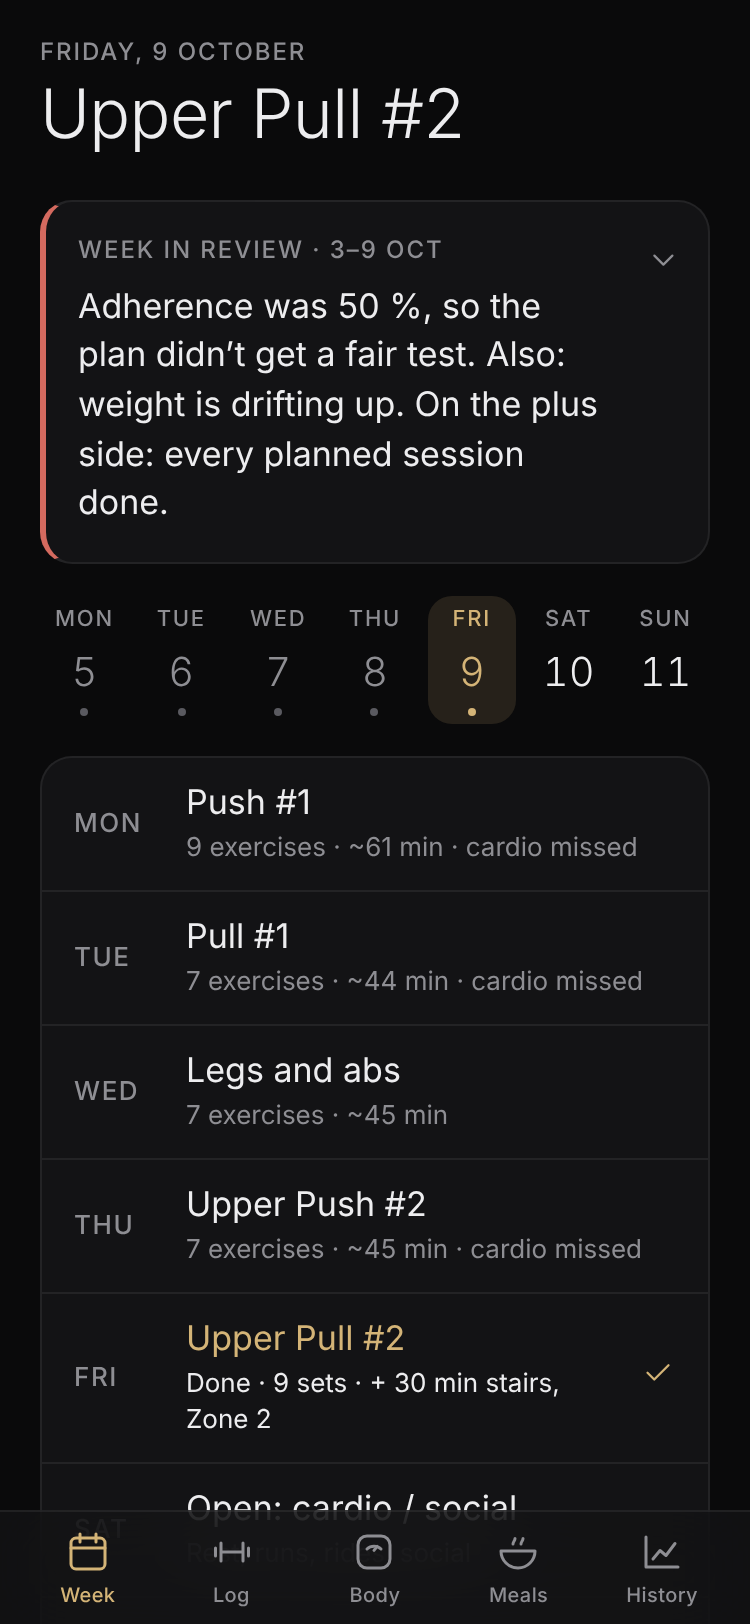
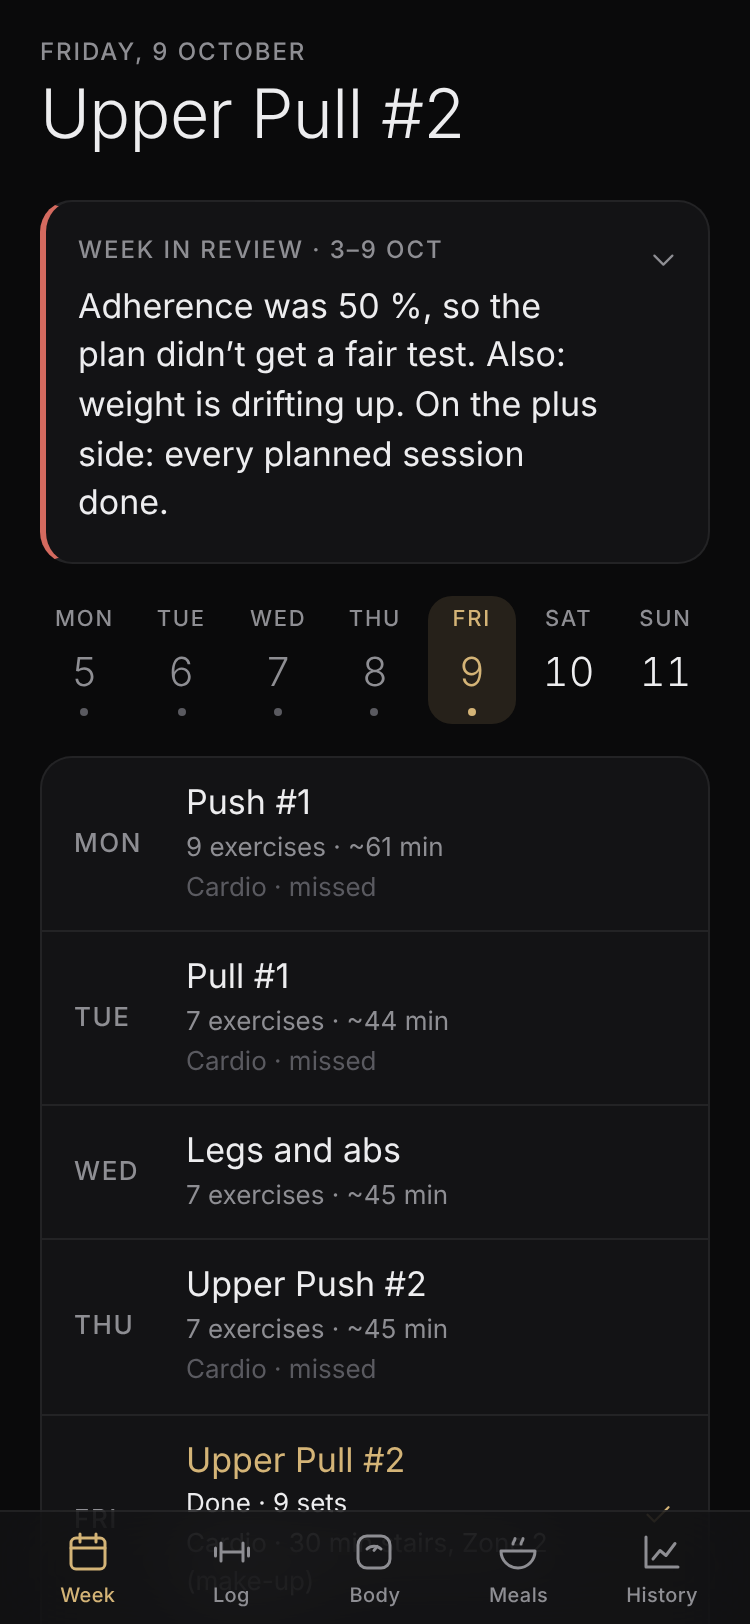
Cardio on its own line per day; reminder-only cardio card; Switch workout
- Week tab: each day's cardio is its own line under the workout
  ("Cardio · 25 min stairs", "Cardio · 35 min run (Strava) ✓",
  "Cardio · missed"); the "Cardio this week" box is gone
- Cardio card: no logging controls (Walter records cardio in Strava);
  it stays under the lifts as the end-of-workout reminder
- Log tab: "Switch workout" under the title on lift days until the
  first set is logged, like "Lift today instead" on open days
- spec 4.2 / 6.5, CLAUDE.md; e2e updated (stage-8 h06, h07)

Claude-Session: https://claude.ai/code/session_014aJiH9Rgq3VrfiuXciGymN

diff --git a/app/views/cardio.js b/app/views/cardio.js
@@ -1,7 +1,7 @@
 // Cardio on the Log and Week tabs (spec §6.5): what the coach prescribes today, at what
-// heart rate and why, what's done this week (Strava + Stairs ✓ taps), and logging a tap.
-import { h, toast, stepper, openSheet } from '../ui.js';
-import { saveDaily } from '../records.js';
+// heart rate and why, and what's done this week. Walter records cardio in Strava, so the
+// card is a reminder only (Walter, 2026-10-13: no logging controls).
+import { h, openSheet } from '../ui.js';
 import { cardioText, itemText, MIN_SESSION_MIN } from '../../coach/cardio.js';
 import { weekDates, isoWeekday, WEEKDAYS } from '../../coach/time.js';
 
@@ -44,40 +44,21 @@ export function whySheet(cardio) {
   openSheet({ title: 'Your cardio this week', subtitle: cardioText(rx), body: h('div', { class: 'stack-sm' }, lines), actions: [{ label: 'Close', kind: 'outline' }] });
 }
 
-function logger(ctx, { today, minutes, tap, walk }) {
-  const field = stepper({ value: tap ? tap.minutes : minutes, step: 5, min: 5, max: 180, unit: 'min', compact: true, label: walk ? 'Walk minutes' : 'Stairs minutes' });
-  return h('div', { class: 'stack-sm' },
-    field,
-    h('button', {
-      type: 'button', class: `btn ${tap ? 'outline' : 'primary'} block`,
-      onClick: async () => {
-        const v = field.getValue();
-        if (!(v > 0)) return;
-        await saveDaily(ctx.db, 'stairs', { localDate: today, tz: ctx.tz(), prefix: 'stairs', fields: { minutes: v } });
-        toast(`${walk ? 'Walk' : 'Stairs'} ${v} min logged`);
-        ctx.refresh();
-      },
-    }, tap ? `Update (${tap.minutes} min logged)` : walk ? 'Walk ✓' : 'Stairs ✓'));
-}
-
 // The cardio card. On a lift day it sits under the exercises; on an open day it's the main card.
 export function cardioCard(ctx, training, { openDay = false } = {}) {
   const cardio = training.cardio;
   if (!cardio) return null;
   const today = training.today;
   const t = cardio.today;
-  const tap = training.stairs.filter((s) => s.local_date === today).pop() || null;
   const todays = t ? t.done : cardio.extra || [];
-  const fromStrava = todays.some((i) => i.source === 'strava');
   const why = h('button', { type: 'button', class: 'link-btn', style: 'align-self:flex-start', onClick: () => whySheet(cardio) }, 'Why this cardio');
 
   if (!t) {
-    // no session planned today: a short line on a lift day; logging + the week on an open day
+    // no session planned today
     return h('section', { class: 'card stack-sm cardio-card', 'aria-label': 'Cardio' },
       h('div', { class: 'row' }, h('p', { class: 'label grow', style: 'margin:0' }, 'Cardio'), todays.length ? h('span', { class: 'badge up' }, 'Done') : null),
       h('div', { class: 'cardio-title' }, todays.length ? todays.map(itemText).join(' + ') : 'None planned today'),
       h('p', { class: 'muted xsmall', style: 'margin:0' }, `This week: ${cardioText(cardio.rx)}.`),
-      openDay && !fromStrava ? logger(ctx, { today, minutes: 30, tap, walk: false }) : null,
       weekTracker(cardio, today),
       why);
   }
@@ -92,17 +73,19 @@ export function cardioCard(ctx, training, { openDay = false } = {}) {
     t.kcal ? h('p', { class: 'muted xsmall', style: 'margin:0' }, `≈${t.kcal} kcal · already counted in your plan’s calories`) : null,
     t.note ? h('p', { class: 'small cardio-note', style: 'margin:0' }, t.note) : null,
     todays.length ? h('p', { class: 'small accent', style: 'margin:0' }, `Logged: ${todays.map(itemText).join(' + ')}`) : null,
-    fromStrava ? null : logger(ctx, { today, minutes: t.minutes, tap, walk: t.kind === 'walk' }),
+    t.status !== 'done' ? h('p', { class: 'muted xsmall', style: 'margin:0' }, 'Record it in Strava: it counts here after the next morning’s sync.') : null,
     weekTracker(cardio, today),
     why);
 }
 
 // Week tab: what the day's row says about cardio.
+// Week tab: the day's cardio line ("Cardio · 25 min stairs", "Cardio · 35 min run (Strava) ✓").
+// → { text, state: 'done' | 'missed' | 'planned' } or null.
 export function cardioMeta(cardio, date, today) {
   if (!cardio) return null;
   const items = cardio.week.items.filter((i) => i.local_date === date);
-  if (items.length) return `${items.map(itemText).join(' + ')} ✓`;
-  if (date < today) return cardio.rx.days.includes(isoWeekday(date)) ? 'cardio missed' : null;
-  if (date === today && cardio.today) return `+ ${todayTitle(cardio.today).replace(' · ', ', ')}`;
-  return cardio.rx.days.includes(isoWeekday(date)) ? `+ ${cardio.rx.minutes} min stairs` : null;
+  if (items.length) return { text: `Cardio · ${items.map(itemText).join(' + ')} ✓`, state: 'done' };
+  if (date < today) return cardio.rx.days.includes(isoWeekday(date)) ? { text: 'Cardio · missed', state: 'missed' } : null;
+  if (date === today && cardio.today) return { text: `Cardio · ${todayTitle(cardio.today).replace(' · ', ', ')}${cardio.today.makeup ? ' (make-up)' : ''}`, state: 'planned' };
+  return cardio.rx.days.includes(isoWeekday(date)) ? { text: `Cardio · ${cardio.rx.minutes} min stairs`, state: 'planned' } : null;
 }

diff --git a/app/views/week.js b/app/views/week.js
@@ -6,8 +6,7 @@ import { focusCheckin } from './body.js';
 import { checkinState, currentPhase, realPhases } from '../../coach/phase.js';
 import { weeklySummary, activeSummaryCheckin } from '../../coach/summary.js';
 import { header, note, sessionList, addonCard } from './common.js';
-import { cardioMeta, weekTracker, whySheet } from './cardio.js';
-import { cardioText } from '../../coach/cardio.js';
+import { cardioMeta } from './cardio.js';
 import { loadTraining, planFor, progressCount } from '../training.js';
 import { planItem } from './log.js';
 import { ensurePlans, planNotice } from '../meal-plans.js';
@@ -33,7 +32,7 @@ export async function render(screen, ctx) {
 
   const cardioLine = (date) => {
     const c = cardioMeta(training.cardio, date, today);
-    return c ? h('p', { class: 'small', style: 'margin:0 0 8px' }, `Cardio: ${c.replace(/^\+ /, '')}`) : null;
+    return c ? h('p', { class: 'small', style: 'margin:0 0 8px' }, c.text.replace(' · ', ': ')) : null;
   };
   const openDay = (date) => {
     const day = dayOf(date);
@@ -88,13 +87,13 @@ export async function render(screen, ctx) {
     } else if (day && day.exercises.length) {
       meta = `${day.exercises.length} exercises${day.est_min ? ` · ~${day.est_min} min` : ''}`;
     } else {
-      meta = cardioMeta(training.cardio, d, today) ? null : 'Rest, runs, rides, social';
+      meta = 'Rest, runs, rides, social';
     }
+    // cardio on its own line under the workout (Walter, 2026-10-13)
     const cm = cardioMeta(training.cardio, d, today);
-    meta = [meta, cm].filter(Boolean).join(' · ');
     return h('button', { type: 'button', class: `item day-row${d === today ? ' today' : ''}${logged.length ? ' logged' : ''}`, onClick: () => openDay(d) },
       h('span', { class: 'when' }, WEEKDAYS[isoWeekday(d) - 1]),
-      h('span', { class: 'grow' }, h('div', { class: 'name' }, day ? day.name : '—'), h('div', { class: 'meta' }, meta)),
+      h('span', { class: 'grow' }, h('div', { class: 'name' }, day ? day.name : '—'), h('div', { class: 'meta' }, meta), cm ? h('div', { class: `meta cardio ${cm.state}` }, cm.text) : null),
       logged.length && logged[logged.length - 1].status === 'finished' ? h('span', { class: 'accent' }, icon('check', { size: 18 })) : null);
   }));
 
@@ -126,20 +125,8 @@ export async function render(screen, ctx) {
     h('div', { class: 'stack' },
       strip,
       rows,
-      training.cardio ? cardioWeekCard(training.cardio, today) : null,
       ctx.program ? null : note('Program not loaded yet: connect once to fetch it.'),
       h('p', { class: 'faint xsmall center' }, `${tzCity(s.tz_current)} time · ${s.tz_mode === 'auto' ? 'follows iPhone' : 'set manually'}`)));
-}
-
-// ---- cardio this week (spec §6.5) ---------------------------------------------------------
-
-function cardioWeekCard(cardio, today) {
-  return h('section', { class: 'card stack-sm cardio-card', 'aria-label': 'Cardio this week' },
-    h('p', { class: 'label', style: 'margin:0' }, 'Cardio this week'),
-    h('div', { class: 'cardio-title' }, cardioText(cardio.rx)),
-    cardio.rx.change ? h('p', { class: 'small accent', style: 'margin:0' }, `New this week (was ${cardio.rx.change.from}).`) : null,
-    weekTracker(cardio, today),
-    h('button', { type: 'button', class: 'link-btn', style: 'align-self:flex-start', onClick: () => whySheet(cardio) }, 'Why this cardio'));
 }
 
 // ---- weekly executive summary ----------------------------------------------------------------

diff --git a/app/views/log.js b/app/views/log.js
@@ -108,6 +108,14 @@ export async function render(screen, ctx) {
   const label = `Today · ${WEEKDAYS[isoWeekday(today) - 1]} ${formatDayMonth(today)} · ${training.week === 0 ? 'lead-in week' : `week ${training.week}`}`;
   const change = h('button', { type: 'button', class: 'icon-btn', 'aria-label': 'Change workout', onClick: () => chooseDay(ctx, today) }, icon('week'));
   screen.append(header({ label, title: day.name, right: change }));
+  // switching to another day's workout, as on open days (Walter, 2026-10-13); once a set is
+  // logged the session is under way, so the switch stays in the calendar icon only
+  if (session.status === 'draft') {
+    const other = day.dow !== isoWeekday(today) ? `Today is ${WEEKDAYS[isoWeekday(today) - 1]}: doing ${day.name} instead. ` : '';
+    screen.append(h('div', { class: 'switch-row' },
+      other ? h('span', { class: 'muted xsmall' }, other) : null,
+      h('button', { type: 'button', class: 'link-btn', onClick: () => chooseDay(ctx, today) }, 'Switch workout')));
+  }
 
   if (training.healthMissing) screen.append(h('div', { class: 'chip-row' }, healthChip(training.healthUrl), h('span', { class: 'muted xsmall' }, 'Today’s recovery data isn’t in yet.')));
   for (const a of training.addons) screen.append(addonCard(a));
@@ -444,7 +452,6 @@ async function renderOpenDay(screen, ctx, training) {
   for (const a of training.addons) screen.append(addonCard(a));
   screen.append(
     cardioCard(ctx, training, { openDay: true }),
-    h('p', { class: 'muted xsmall', style: 'margin:12px 0 0' }, 'Stairs ✓ is for sessions that don’t reach Strava. Runs, rides and swims come from Strava with the morning run.'),
     h('div', { class: 'center', style: 'margin-top:16px' },
       h('button', { type: 'button', class: 'link-btn', onClick: () => chooseDay(ctx, today) }, 'Lift today instead')));
 }

diff --git a/app/styles.css b/app/styles.css
@@ -680,3 +680,8 @@ body.resting .screen { padding-bottom: calc(var(--tabbar-h) + var(--safe-bottom)
 .summary-head .chev { flex: 0 0 auto; margin-top: 1px; color: var(--text-2); transform: rotate(90deg); transition: transform var(--dur) var(--ease); }
 .summary-head[aria-expanded="true"] .chev { transform: rotate(-90deg); }
 .summary-body[hidden] { display: none; }
+.day-row .meta.cardio { margin-top: 2px; }
+.day-row .meta.cardio.done { color: var(--accent); }
+.day-row .meta.cardio.missed { color: var(--text-3); }
+.switch-row { display: flex; align-items: center; justify-content: space-between; gap: 12px; margin: -4px 0 12px; }
+.switch-row .link-btn { padding: 0; margin-left: auto; white-space: nowrap; flex: 0 0 auto; }

diff --git a/claude/APP_SPEC.md b/claude/APP_SPEC.md
@@ -168,7 +168,8 @@ Backoff      [ 55] [12 ]             ✓
 - If readiness modified a target, show a chip with the reason, e.g. "Held at 75: HRV low, 2 h ride yesterday."
 - Quick actions: swap exercise (from a per-exercise alternates list), add/skip a set, note.
 - "Finish session" saves the log, and the app immediately computes the baseline next-session targets on-device (§6.2), so progression works offline even if the daily run never comes.
-- On weekend days, the Log tab shows a one-tap **"Stairs ✓ (__ min)"** fallback for sessions that don't reach Strava.
+- Cardio is recorded in Strava only; the Log tab has no cardio logging (Walter, 2026-10-13). Older Stairs ✓ taps still count.
+- Lift days show **Switch workout** under the title until the first set is logged, to do another day's session (open days have "Lift today instead").
 - Every day, a cardio card shows the coach's cardio for today with the lifts (§6.5).
 
 ### 4.3 Body
@@ -287,7 +288,7 @@ Inputs: overnight HRV vs 7-day rolling baseline, resting HR vs 7-day baseline, s
 Every 6th week, or earlier when ≥ 3 main lifts (Flat DB Bench, Incline DB Bench, Hammer Pulldowns, Single Arm DB Rows, Smith Squat, Single Leg Press) show 2 consecutive sessions of rep drops. The deload halves the sets, keeps the loads, sets RIR ≥ 3, and turns failure finishers into RIR 2. The app announces it on the Week tab the Friday before.
 
 ### 6.5 Cardio prescription (Walter, 2026-10-09)
-The coach prescribes cardio as part of each day's workout. Strava and the Stairs ✓ tap record what he did. All of it is pure code in `coach/cardio.js`, shared by the routine and the phone.
+The coach prescribes cardio as part of each day's workout. Strava records what he did (the Stairs ✓ tap was removed on 2026-10-13; older taps still count). All of it is pure code in `coach/cardio.js`, shared by the routine and the phone.
 - **Weekly dose**, locked with the meal plan (`plans[].cardio`, set by the weekly step, §8.1):
 
   | Mode | Dose |
@@ -318,11 +319,11 @@ The coach prescribes cardio as part of each day's workout. Strava and the Stairs
   - After a long endurance session (§8.5 add-on): 20 min, optional.
 - **What counts:**
   - Strava cardio activities ≥ 15 min (rides, runs, swims, stairs, …).
-  - Stairs ✓ taps ≥ 15 min. A tap on a day with a Strava StairStepper session is the same session.
+  - Older Stairs ✓ taps ≥ 15 min (the tap was removed 2026-10-13). A tap on a day with a Strava StairStepper session is the same session.
 - **Where it shows:**
-  - Log tab: a cardio card under the exercises, with the dose, heart rate, readiness note, Stairs ✓ with the prescribed minutes, the week's tracker and "Why this cardio".
+  - Log tab: a cardio card under the exercises as the reminder at the end of the lift: the dose, heart rate, readiness note, the week's tracker and "Why this cardio". It has no logging controls.
   - Open days: the cardio card is the main card.
-  - Week tab: each day's row and preview, plus a "Cardio this week" card.
+  - Week tab: its own line under each day's workout ("Cardio · 25 min stairs", "Cardio · 35 min run (Strava) ✓", "Cardio · missed"), and in the day's preview. No separate weekly box (Walter, 2026-10-13).
 
 ### 6.6 Daily summary (Walter, 2026-10-13)
 Each morning the Week tab opens on **Yesterday · <date>**: an executive summary of the previous day and the focus for today. It's pure code in `coach/daily.js`, computed by the daily run into `targets/today.json` → `daily`, and recomputed when Health data is re-synced (§2b). The voice is the weekly review's (§10): the numbers first, no softening, always what went well, then one thing to do.
@@ -511,7 +512,7 @@ Walter fixes and changes the app over time in Claude Code. **No update may ever 
 | Exercise swaps for his gym/equipment | program as in §5 |
 | Height (for the body-fat estimate) | ask on first launch |
 | Apple Health read permission for Weight / Body Fat | ask Walter to enable; Shortcut works either way |
-| Stair-stepper workouts reaching Strava | verify in the first week; the "Stairs ✓" tap is the fallback |
+| Stair-stepper workouts reaching Strava | Walter records all cardio in Strava (2026-10-13) |
 | Step floor | 8,000/day |
 | Home timezone for backup schedules | America/Los_Angeles |
 | GitHub repo + fine-grained token, routine API token | created during setup |

diff --git a/CLAUDE.md b/CLAUDE.md
@@ -112,7 +112,9 @@ The new service worker installs in the background and waits. Walter sees "Update
   - `baseCardio`, `nextCardio` (the weekly step), `rxForWeek`, `cardioItems`, `cardioForDay`, `zone2`.
 - The weekly dose is stored on the plan record (`plans[].cardio`) and locked with the food. A carried plan keeps it unless the mode changed.
 - In a cut, cardio is the first lever: a stall adds a session (4 → 6 × 30) before carbs come down. That decision is still the week's one change.
-- `targets/today.json` → `cardio` holds today's session, the heart-rate range and the week's done items. The phone recomputes it offline from the week's Strava items in the latest targets plus local Stairs ✓ taps.
+- `targets/today.json` → `cardio` holds today's session, the heart-rate range and the week's done items. The phone recomputes it offline from the week's Strava items in the latest targets (plus any older Stairs ✓ taps).
+- Cardio is recorded in Strava only: the cardio card is a reminder with no logging controls (Walter, 2026-10-13). On the Week tab each day's cardio is its own line under the workout (`cardioMeta` → `{ text, state }`); there is no weekly cardio box.
+- Lift days have a **Switch workout** link under the title until the first set is logged (`chooseDay`).
 - Strava HR zones come from `get_athlete_zones` (routine step 3, saved as `zones` in `.coach/strava.json`) and are kept in `data/model/state.json` → `hr_zones`.
 
 ## Daily summary (stage 8, spec §6.6)
